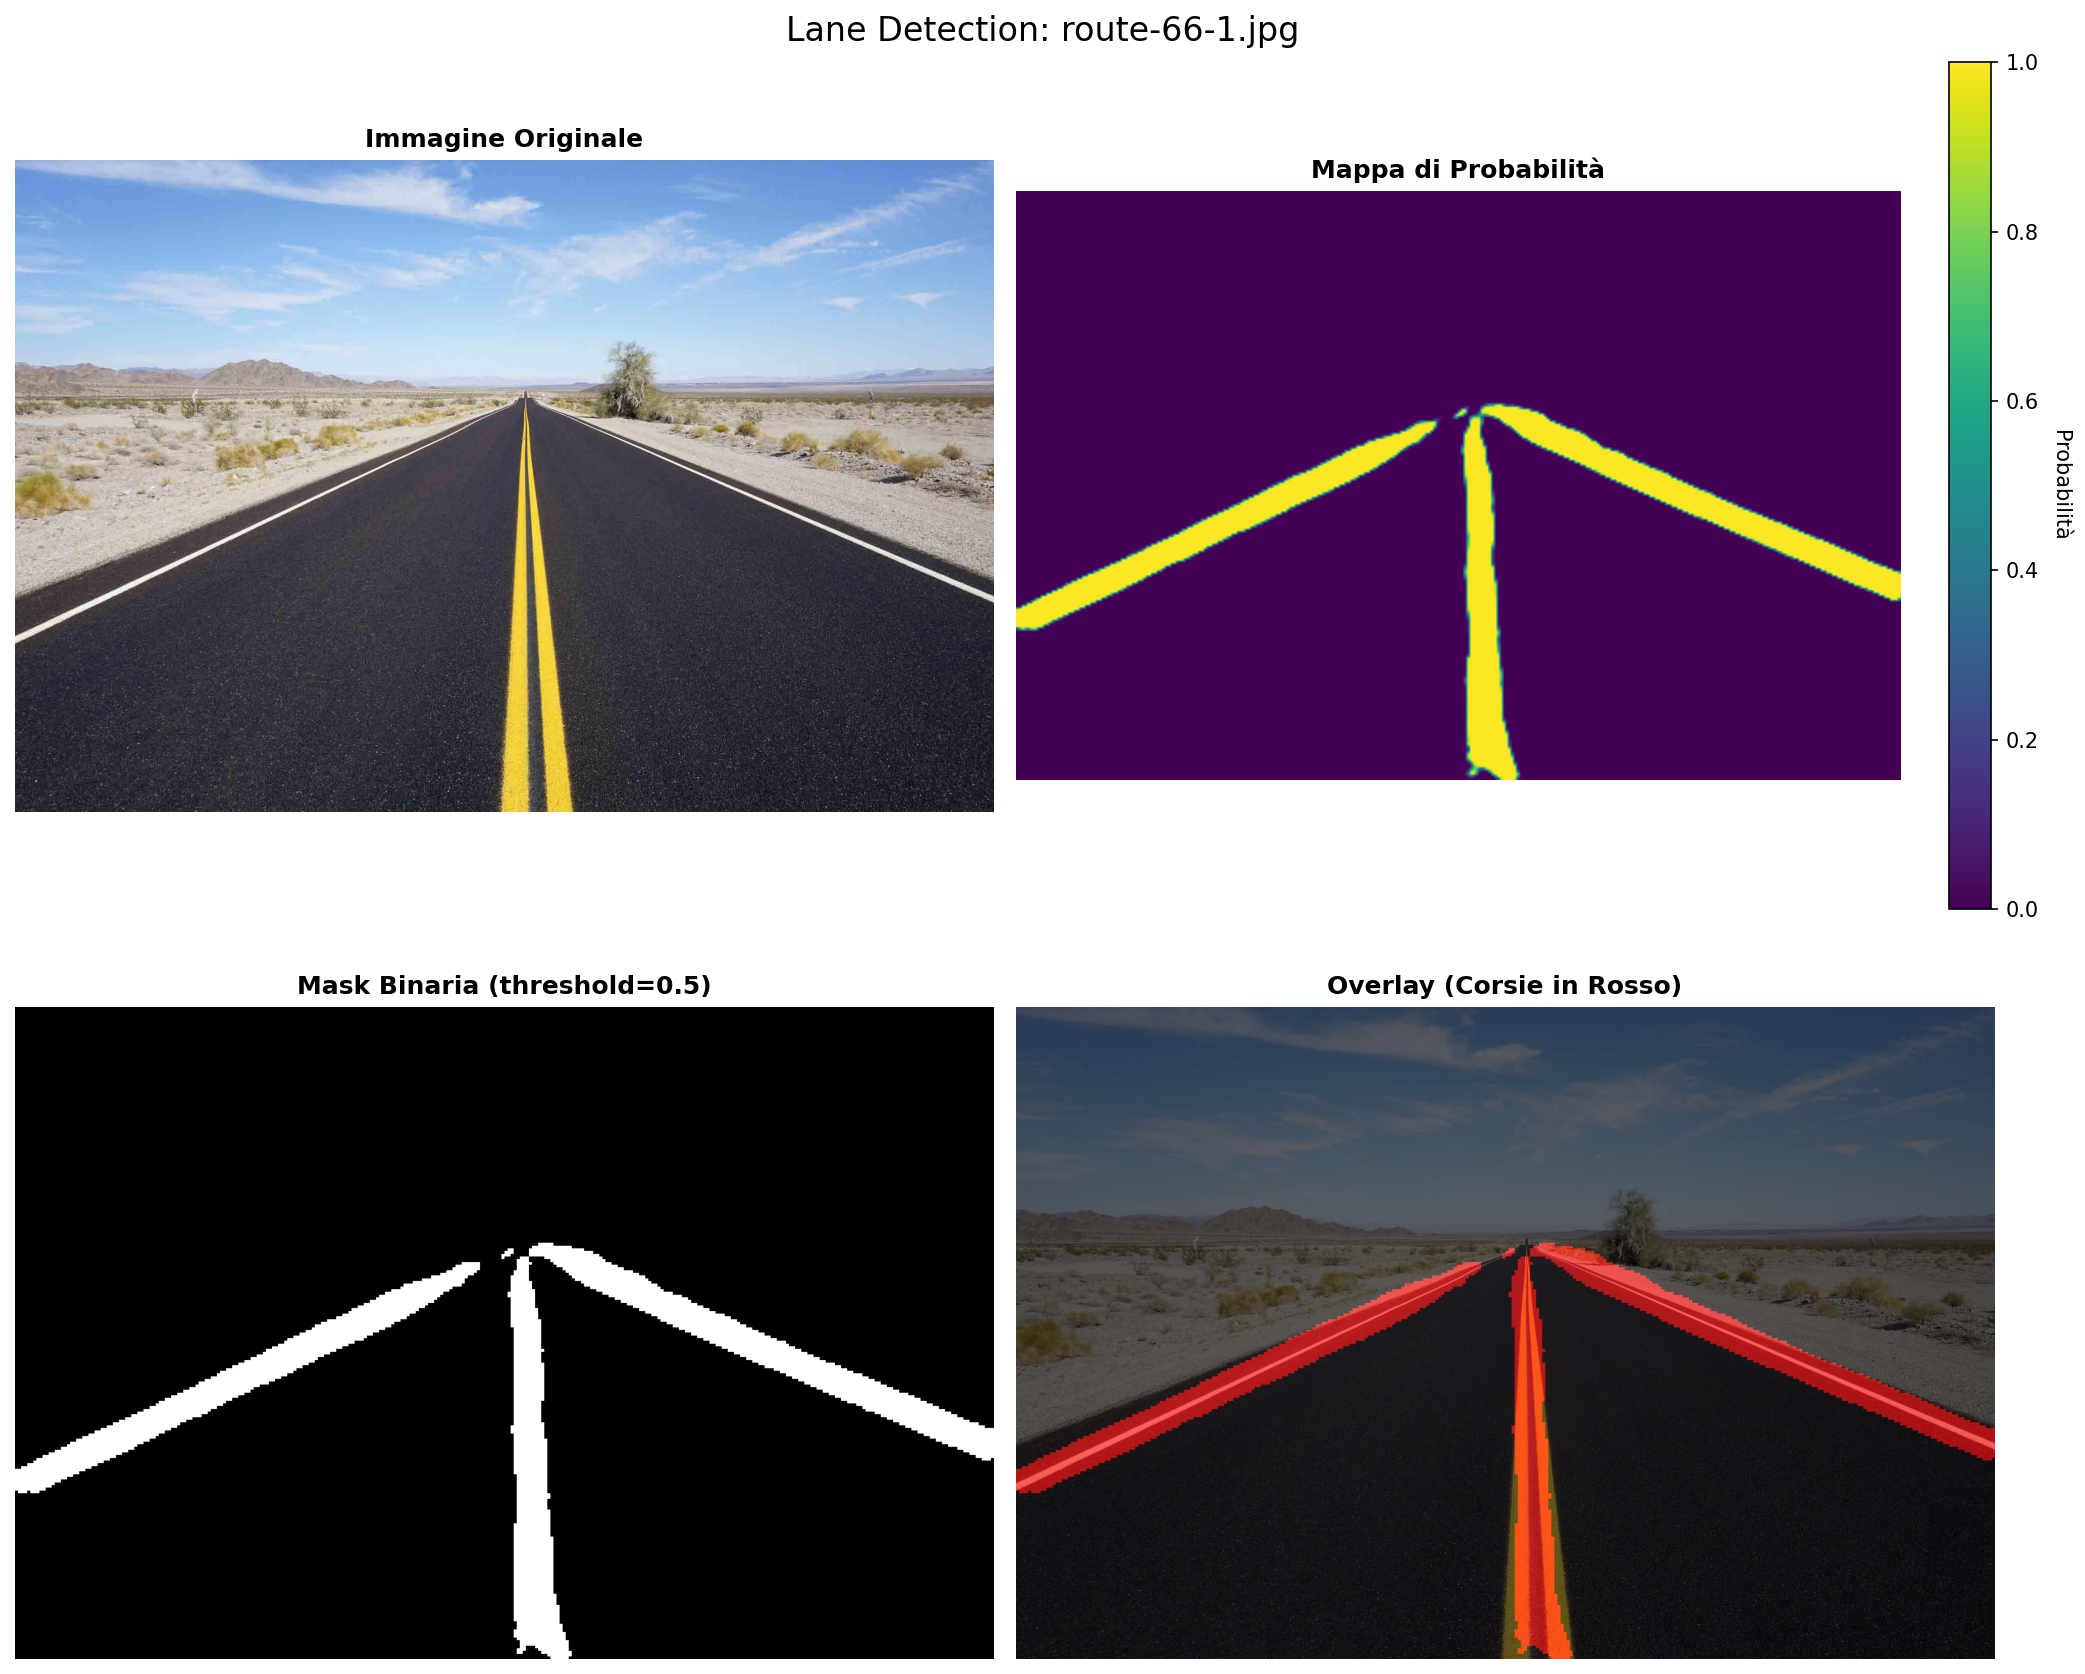
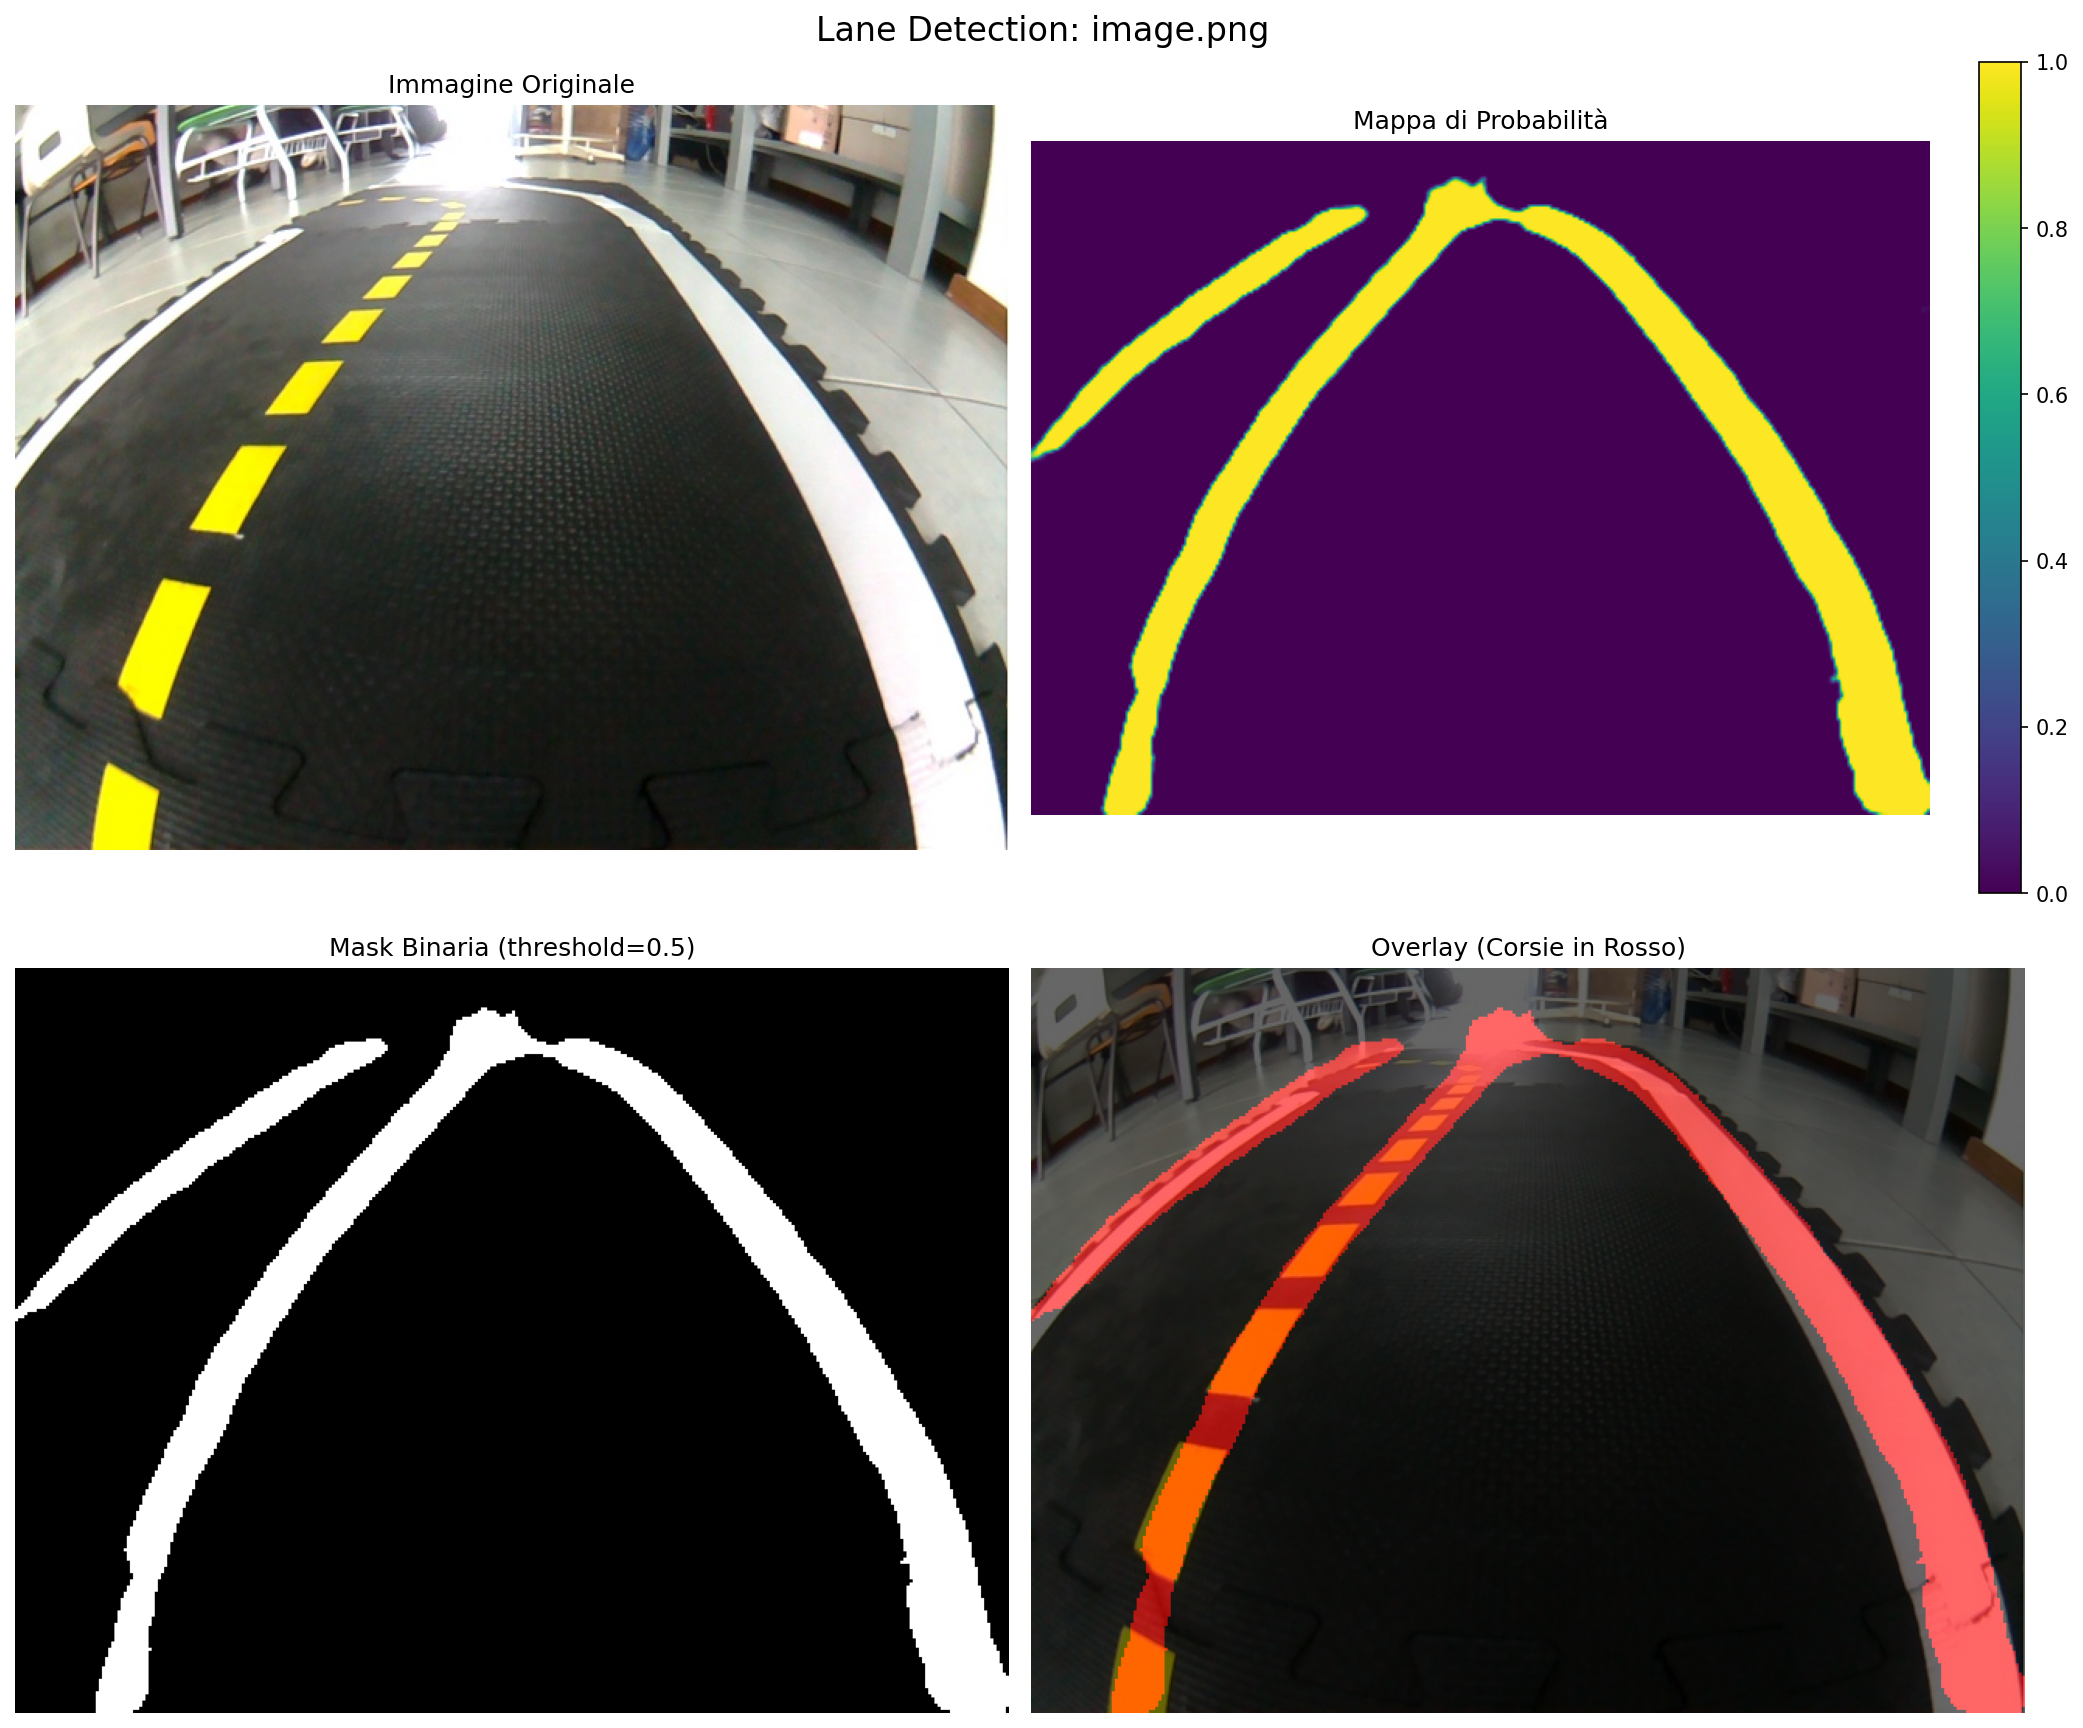
.

diff --git a/predict_final.py b/predict_final.py
@@ -1,0 +1,217 @@
+# python
+import os
+import cv2
+import numpy as np
+import torch
+import matplotlib.pyplot as plt
+import segmentation_models_pytorch as smp
+import albumentations as A
+from albumentations.pytorch import ToTensorV2
+from torch.serialization import safe_globals
+
+class LanePredictor:
+    """Classe per fare predizioni con U-Net addestrato - ROBOT 640x480 (supporta full model)"""
+
+    def __init__(self, model_path, encoder='mobilenet_v2', encoder_weights=None, device=None):
+        if device is None:
+            self.device = 'cuda' if torch.cuda.is_available() else 'cpu'
+        else:
+            self.device = device if torch.cuda.is_available() else 'cpu'
+
+        self.encoder = encoder
+        self.encoder_weights = encoder_weights
+        self.model_path = model_path
+
+        # Dimensioni usate nel file originale
+        self.input_height = 240
+        self.input_width = 320
+
+        # Prova a caricare il file: può essere un modello intero oppure uno state_dict / checkpoint
+        # python
+        try:
+            # allowlist temporanea della classe Unet di segmentation_models_pytorch
+            with safe_globals([smp.Unet]):
+                loaded = torch.load(model_path, map_location=self.device, weights_only=False)
+        except Exception as e:
+            # fallback: prova comunque a caricare forzando weights_only=False
+            # (usa solo se ti fidi del file)
+            loaded = torch.load(model_path, map_location=self.device, weights_only=False)
+
+        if isinstance(loaded, torch.nn.Module):
+            # Full model salvato con torch.save(model, path)
+            self.model = loaded
+            print(f"✅ Full model caricato direttamente da: {model_path}")
+        else:
+            # Se è un dict con metadata cerca la chiave 'model_state_dict', altrimenti prendi il dict diretto
+            if isinstance(loaded, dict) and 'model_state_dict' in loaded:
+                state = loaded['model_state_dict']
+            else:
+                state = loaded
+
+            # Istanzia il modello con gli stessi argomenti usati in training (minimo necessario)
+            self.model = smp.Unet(
+                encoder_name=encoder,
+                encoder_weights=None,  # i pesi allenati verranno caricati dal checkpoint
+                classes=1,
+                activation=None,
+            )
+
+            # Carica lo state_dict (prima strict=True, poi fallback strict=False)
+            try:
+                res = self.model.load_state_dict(state, strict=True)
+                print(f"✅ State_dict caricato con strict=True. Missing: {getattr(res, 'missing_keys', None)} Unexpected: {getattr(res, 'unexpected_keys', None)}")
+            except Exception as e:
+                try:
+                    res = self.model.load_state_dict(state, strict=False)
+                    print(f"⚠ Loaded with strict=False. Missing: {res.missing_keys} Unexpected: {res.unexpected_keys}")
+                except Exception as e2:
+                    raise RuntimeError(f"❌ Errore nel caricamento dello state_dict: {e2}")
+
+            print(f"✅ Modello ricostruito e pesi caricati da: {model_path}")
+
+        # Porta modello su device e setta eval
+        self.model.to(self.device)
+        self.model.eval()
+
+        # Preprocessing (stesso usato in training)
+        self.transform = A.Compose([
+            A.Resize(height=self.input_height, width=self.input_width, interpolation=cv2.INTER_LINEAR, p=1.0),
+            A.Normalize(mean=(0.485, 0.456, 0.406), std=(0.229, 0.224, 0.225), max_pixel_value=255.0),
+            ToTensorV2(),
+        ])
+
+    def predict(self, image_path, threshold=0.5, return_original=True):
+        image = cv2.imread(image_path)
+        if image is None:
+            raise FileNotFoundError(f"❌ Immagine non trovata: {image_path}")
+
+        original_image = cv2.cvtColor(image, cv2.COLOR_BGR2RGB)
+        original_height, original_width = original_image.shape[:2]
+
+        sample = self.transform(image=image)
+        image_tensor = sample['image'].unsqueeze(0).to(self.device).float()
+
+        with torch.no_grad():
+            prediction = self.model(image_tensor)
+            prob_map = torch.sigmoid(prediction).squeeze().cpu().numpy()
+
+        binary_mask = (prob_map > threshold).astype(np.uint8)
+
+        prob_mask_resized = cv2.resize(prob_map, (original_width, original_height), interpolation=cv2.INTER_LINEAR)
+        binary_mask_resized = cv2.resize(binary_mask, (original_width, original_height), interpolation=cv2.INTER_NEAREST)
+
+        if return_original:
+            return prob_mask_resized, binary_mask_resized, original_image
+        else:
+            return prob_mask_resized, binary_mask_resized
+
+    def predict_batch(self, image_paths, threshold=0.5):
+        results = []
+        total = len(image_paths)
+        for i, image_path in enumerate(image_paths):
+            try:
+                prob_mask, binary_mask, original_image = self.predict(image_path, threshold)
+                results.append({
+                    'image_path': image_path,
+                    'prob_mask': prob_mask,
+                    'binary_mask': binary_mask,
+                    'original_image': original_image,
+                    'status': 'success'
+                })
+                print(f" [{i+1}/{total}] ✅ {os.path.basename(image_path)}")
+            except Exception as e:
+                print(f" [{i+1}/{total}] ❌ {os.path.basename(image_path)}: {e}")
+                results.append({'image_path': image_path, 'status': 'error', 'error': str(e)})
+        return results
+
+    def visualize(self, image_path, threshold=0.5, save_path=None):
+        prob_mask, binary_mask, original_image = self.predict(image_path, threshold)
+
+        fig, axes = plt.subplots(2, 2, figsize=(14, 12))
+        fig.suptitle(f'Lane Detection: {os.path.basename(image_path)}', fontsize=16)
+
+        axes[0, 0].imshow(original_image); axes[0, 0].set_title('Immagine Originale'); axes[0, 0].axis('off')
+        im1 = axes[0, 1].imshow(prob_mask, cmap='viridis', vmin=0, vmax=1); axes[0, 1].set_title('Mappa di Probabilità'); axes[0, 1].axis('off')
+        plt.colorbar(im1, ax=axes[0, 1], fraction=0.046)
+        axes[1, 0].imshow(binary_mask, cmap='gray'); axes[1, 0].set_title(f'Mask Binaria (threshold={threshold})'); axes[1, 0].axis('off')
+
+        overlay_image = original_image.copy().astype(float) / 255.0
+        red_overlay = np.zeros_like(overlay_image); red_overlay[:, :, 0] = binary_mask
+        axes[1, 1].imshow(overlay_image); axes[1, 1].imshow(red_overlay, alpha=0.6); axes[1, 1].set_title('Overlay (Corsie in Rosso)'); axes[1, 1].axis('off')
+
+        plt.tight_layout()
+        if save_path:
+            plt.savefig(save_path, dpi=150, bbox_inches='tight')
+            print(f"✅ Visualizzazione salvata in: {save_path}")
+        plt.show()
+        return prob_mask, binary_mask
+
+    def save_predictions(self, image_paths, output_dir, threshold=0.5, format='png'):
+        os.makedirs(output_dir, exist_ok=True)
+        results = self.predict_batch(image_paths, threshold)
+        success_count = 0
+        for result in results:
+            if result['status'] == 'success':
+                base_name = os.path.splitext(os.path.basename(result['image_path']))[0]
+                mask_path = os.path.join(output_dir, f'{base_name}_mask.{format}')
+                cv2.imwrite(mask_path, result['binary_mask'] * 255)
+                prob_path = os.path.join(output_dir, f'{base_name}_prob.{format}')
+                cv2.imwrite(prob_path, (result['prob_mask'] * 255).astype(np.uint8))
+                success_count += 1
+        print(f"✅ Predizioni salvate! ({success_count}/{len(results)} riuscite)")
+
+
+def main():
+    """Esempio di utilizzo"""
+
+    # ==================== CONFIGURAZIONE ====================
+
+    MODEL_PATH = 'test08_nn/full_model.pth'
+    ENCODER = 'mobilenet_v2'
+
+    TEST_IMAGE = 'image.png'
+    TEST_IMAGES_DIR = './test_images'
+
+    OUTPUT_DIR = './predictions'
+    THRESHOLD = 0.5
+
+    # ==================== CREAZIONE PREDICTOR ====================
+
+    predictor = LanePredictor(
+        model_path=MODEL_PATH,
+        encoder=ENCODER,
+        encoder_weights=None,  # ← Modello già addestrato
+        device='cuda'  # O 'cpu' se non hai GPU
+    )
+
+    print("\n" + "=" * 80)
+    print("🤖 ROBOT LANE DETECTION - 640x480")
+    print("=" * 80 + "\n")
+
+    # ==================== PREDIZIONE SINGOLA IMMAGINE ====================
+
+    if os.path.exists(TEST_IMAGE):
+        print(f"🔮 Predizione singola su: {TEST_IMAGE}\n")
+        output_path = os.path.join(OUTPUT_DIR, 'prediction_visualization.png')
+        predictor.visualize(TEST_IMAGE, threshold=THRESHOLD, save_path=output_path)
+
+    # ==================== PREDIZIONE BATCH ====================
+
+    if os.path.exists(TEST_IMAGES_DIR):
+        test_images = [
+            os.path.join(TEST_IMAGES_DIR, f)
+            for f in os.listdir(TEST_IMAGES_DIR)
+            if f.lower().endswith(('.jpg', '.png', '.jpeg'))
+        ]
+
+        if test_images:
+            print(f"\n📁 Predizione batch su {len(test_images)} immagini...")
+            predictor.save_predictions(test_images, OUTPUT_DIR, threshold=THRESHOLD)
+        else:
+            print(f"⚠ Nessuna immagine trovata in {TEST_IMAGES_DIR}")
+    else:
+        print(f"⚠ Cartella non trovata: {TEST_IMAGES_DIR}")
+
+
+if __name__ == '__main__':
+    main()

diff --git a/test08_nn/model_generator.py b/test08_nn/model_generator.py
@@ -1,0 +1,56 @@
+# python
+import torch
+import segmentation_models_pytorch as smp
+
+# Percorsi (esempio)
+weights_path = 'best_unet_mobilenet1.pth'          # file contenente solo state_dict
+full_ckpt_path = 'full_checkpoint.pth'    # dove salvare checkpoint completo
+full_model_path = 'full_model.pth'        # opzionale: salva l'intero oggetto modello
+
+device = 'cuda' if torch.cuda.is_available() else 'cpu'
+
+# Parametri esatti usati in training (assicurati coincidano)
+encoder = 'mobilenet_v2'
+encoder_weights = None
+classes = 1
+activation = None
+# Se hai usato parametri addizionali (es. decoder_dropout), aggiungili qui.
+
+# Istanzia il modello con gli stessi argomenti
+model = smp.Unet(
+    encoder_name=encoder,
+    encoder_weights=encoder_weights,  # o None se checkpoint contiene tutti i pesi
+    classes=classes,
+    activation=activation,
+    # aggiungi altri argomenti usati in training se necessari
+)
+model.to(device)
+
+# Carica i pesi (gestisce sia state_dict diretto che dict con chiave model_state_dict)
+loaded = torch.load(weights_path, map_location=device)
+state = loaded.get('model_state_dict', loaded) if isinstance(loaded, dict) else loaded
+
+# Prova a caricare con strict=True, altrimenti fallback a strict=False e stampa differenze
+try:
+    res = model.load_state_dict(state, strict=True)
+    print("Caricato con strict=True. Missing:", res.missing_keys, "Unexpected:", res.unexpected_keys)
+except Exception as e:
+    print("strict=True fallito:", e)
+    res = model.load_state_dict(state, strict=False)
+    print("Caricato con strict=False. Missing:", res.missing_keys, "Unexpected:", res.unexpected_keys)
+
+model.eval()
+
+# Salva checkpoint completo con metadata (raccomandato)
+torch.save({
+    'encoder': encoder,
+    'encoder_weights': encoder_weights,
+    'classes': classes,
+    'activation': activation,
+    'model_state_dict': model.state_dict(),
+}, full_ckpt_path)
+print(f"Checkpoint salvato in: {full_ckpt_path}")
+
+# Opzionale: salva l'intero oggetto modello (meno portabile)
+torch.save(model, full_model_path)
+print(f"Intero modello salvato in: {full_model_path}")
